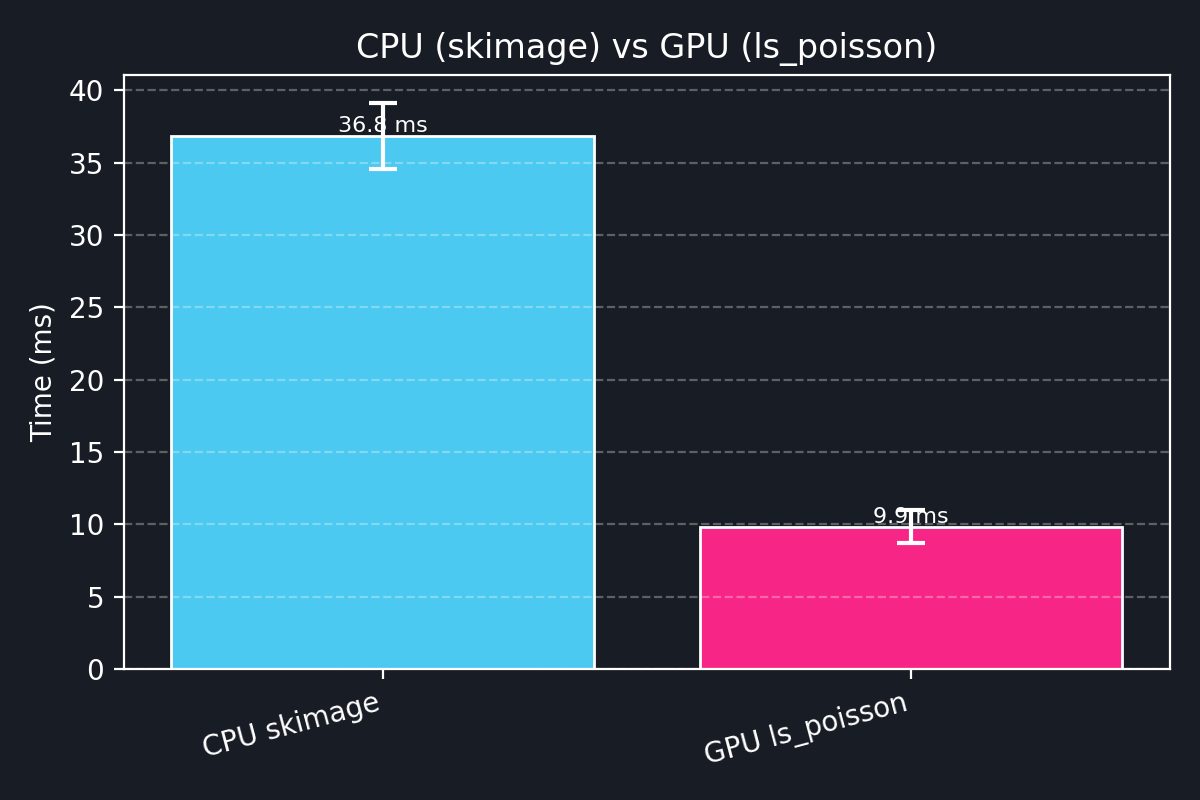
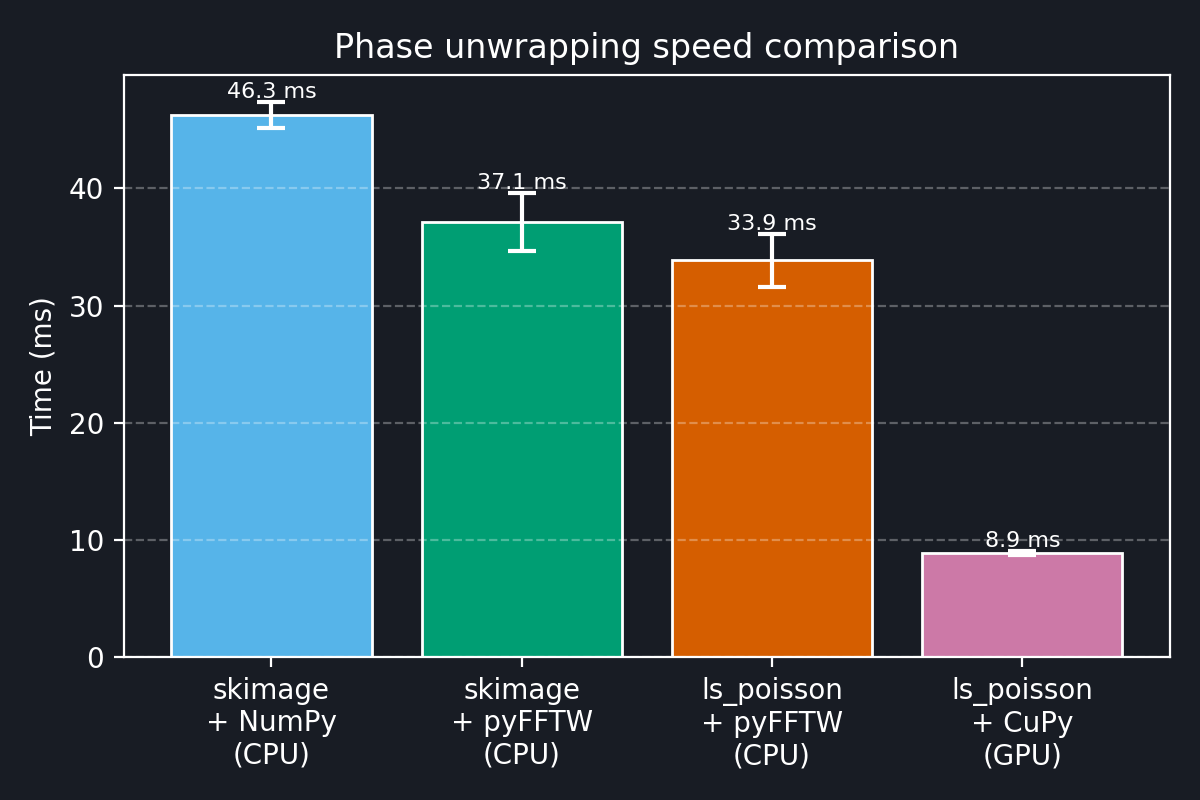
docs: expand algorithm and cpu/gpu comparison

diff --git a/examples/compare_cpu_gpu.py b/examples/compare_cpu_gpu.py
@@ -1,5 +1,16 @@
-"""
-Compare speed of CPU (skimage unwrap_phase) vs GPU (ls_poisson) on hologram_cell data.
+"""CPU vs GPU phase unwrapping speed comparison
+
+Compares four pipelines on hologram_cell data:
+
+- CPU  skimage    + NumPy   (qpretrieve NumPy FFT   + skimage unwrap)
+- CPU  skimage    + pyFFTW  (qpretrieve pyFFTW FFT  + skimage unwrap)
+- CPU  ls_poisson + pyFFTW  (qpretrieve pyFFTW FFT  + xpunwrap Poisson)
+- GPU  ls_poisson + CuPy    (full CuPy pipeline)
+
+Run::
+
+    python examples/compare_cpu_gpu.py
+
 """
 
 from __future__ import annotations
@@ -12,6 +23,7 @@ import numpy as np
 
 import qpretrieve
 import xpunwrap
+import xpunwrap.fourier as xp_fourier
 
 DATA_PATH = Path(__file__).parent.parent / "tests" / "data" / "hologram_cell.npz"
 OUTPUT_PNG = Path(__file__).parent / "compare_cpu_gpu.png"
@@ -34,36 +46,86 @@ def _stack_phase(arr: np.ndarray) -> np.ndarray:
     return np.repeat(arr[None, ...], repeats=STACK_DEPTH, axis=0)
 
 
-def time_cpu_pipeline(raw: dict[str, np.ndarray], repeats: int = 3):
+def _time_skimage_pipeline(
+        raw: dict[str, np.ndarray],
+        fft_interface,
+        repeats: int = 3,
+):
+    """Shared timing loop for skimage-based pipelines."""
     qpretrieve.set_ndarray_backend("numpy")
-    fft_interface = qpretrieve.fourier.FFTFilterPyFFTW
     try:
         algo = xpunwrap.algos_available()["algo_skimage_unwrap"]
     except Exception:
         return None
 
-    # do a warmup, important for PyFFTW
-    holo = qpretrieve.OffAxisHologram(raw["data"], fft_interface)
-    bg = qpretrieve.OffAxisHologram(raw["bg"], fft_interface)
-    holo.run_pipeline(filter_name="disk", filter_size=1 / 2, scale_to_filter=True)
-    bg.process_like(holo)
-    phase_wrp = np.asarray(holo.phase - bg.phase, dtype=np.float32)
-    algo(phase_wrp)
+    def _run():
+        holo = qpretrieve.OffAxisHologram(raw["data"], fft_interface)
+        bg = qpretrieve.OffAxisHologram(raw["bg"], fft_interface)
+        holo.run_pipeline(
+            filter_name="disk", filter_size=1 / 2, scale_to_filter=True)
+        bg.process_like(holo)
+        algo(np.asarray(holo.phase - bg.phase, dtype=np.float32))
 
+    _run()  # warmup (important for pyFFTW plan compilation)
     times = []
     for _ in range(repeats):
         start = time.perf_counter()
-        holo = qpretrieve.OffAxisHologram(raw["data"], fft_interface)
-        bg = qpretrieve.OffAxisHologram(raw["bg"], fft_interface)
-        holo.run_pipeline(filter_name="disk", filter_size=1 / 2, scale_to_filter=True)
-        bg.process_like(holo)
-        phase_wrp = np.asarray(holo.phase - bg.phase, dtype=np.float32)
-        algo(phase_wrp)
+        _run()
         times.append((time.perf_counter() - start) * 1000.0)
     return float(np.mean(times)), float(np.std(times))
 
 
+def time_cpu_skimage_numpy(raw: dict[str, np.ndarray], repeats: int = 3):
+    """CPU pipeline: qpretrieve (NumPy FFT) + skimage unwrap."""
+    return _time_skimage_pipeline(
+        raw, qpretrieve.fourier.FFTFilterNumpy, repeats)
+
+
+def time_cpu_skimage_pyfftw(raw: dict[str, np.ndarray], repeats: int = 3):
+    """CPU pipeline: qpretrieve (pyFFTW) + skimage unwrap."""
+    return _time_skimage_pipeline(
+        raw, qpretrieve.fourier.FFTFilterPyFFTW, repeats)
+
+
+def time_cpu_ls_poisson_pyfftw(raw: dict[str, np.ndarray], repeats: int = 3):
+    """CPU pipeline: qpretrieve (pyFFTW) + xpunwrap ls_poisson (pyFFTW)."""
+    from xpunwrap.fourier import FFTEnginePyFFTW
+    if FFTEnginePyFFTW is None:
+        return None
+
+    qpretrieve.set_ndarray_backend("numpy")
+    xpunwrap.set_ndarray_backend("numpy")
+    fft_interface = qpretrieve.fourier.FFTFilterPyFFTW
+    xp_fourier.PREFERRED_ENGINE = "FFTEnginePyFFTW"
+    algo = xpunwrap.algos_available()["algo_ls_poisson"]
+
+    try:
+        # Warmup
+        holo = qpretrieve.OffAxisHologram(raw["data"], fft_interface)
+        bg = qpretrieve.OffAxisHologram(raw["bg"], fft_interface)
+        holo.run_pipeline(
+            filter_name="disk", filter_size=1 / 2, scale_to_filter=True)
+        bg.process_like(holo)
+        algo(np.asarray(holo.phase - bg.phase, dtype=np.float32))
+
+        times = []
+        for _ in range(repeats):
+            start = time.perf_counter()
+            holo = qpretrieve.OffAxisHologram(raw["data"], fft_interface)
+            bg = qpretrieve.OffAxisHologram(raw["bg"], fft_interface)
+            holo.run_pipeline(
+                filter_name="disk", filter_size=1 / 2, scale_to_filter=True)
+            bg.process_like(holo)
+            algo(np.asarray(holo.phase - bg.phase, dtype=np.float32))
+            times.append((time.perf_counter() - start) * 1000.0)
+    finally:
+        xp_fourier.PREFERRED_ENGINE = None
+
+    return float(np.mean(times)), float(np.std(times))
+
+
 def time_gpu_pipeline(raw: dict[str, np.ndarray], repeats: int = 3):
+    """GPU pipeline: qpretrieve (CuPy FFT) + xpunwrap ls_poisson (CuPy FFT)."""
     try:
         import cupy as cp  # noqa: F401
     except Exception:
@@ -79,19 +141,19 @@ def time_gpu_pipeline(raw: dict[str, np.ndarray], repeats: int = 3):
         if hasattr(xp, "cuda"):
             xp.cuda.Stream.null.synchronize()
 
-    times = []
-    # Warmup once
+    # Warmup
     _sync()
     holo_gpu = xp.asarray(raw["data"])
     bg_gpu = xp.asarray(raw["bg"])
     holo_obj = qpretrieve.OffAxisHologram(holo_gpu, fft_interface)
     bg_obj = qpretrieve.OffAxisHologram(bg_gpu, fft_interface)
-    holo_obj.run_pipeline(filter_name="disk", filter_size=1 / 2, scale_to_filter=True)
+    holo_obj.run_pipeline(
+        filter_name="disk", filter_size=1 / 2, scale_to_filter=True)
     bg_obj.process_like(holo_obj)
-    phase_wrp = xp.asarray(holo_obj.phase - bg_obj.phase, dtype=xp.float32)
-    algo(phase_wrp)
+    algo(xp.asarray(holo_obj.phase - bg_obj.phase, dtype=xp.float32))
     _sync()
 
+    times = []
     for _ in range(repeats):
         _sync()
         start = time.perf_counter()
@@ -99,10 +161,10 @@ def time_gpu_pipeline(raw: dict[str, np.ndarray], repeats: int = 3):
         bg_gpu = xp.asarray(raw["bg"])
         holo_obj = qpretrieve.OffAxisHologram(holo_gpu, fft_interface)
         bg_obj = qpretrieve.OffAxisHologram(bg_gpu, fft_interface)
-        holo_obj.run_pipeline(filter_name="disk", filter_size=1 / 2, scale_to_filter=True)
+        holo_obj.run_pipeline(
+            filter_name="disk", filter_size=1 / 2, scale_to_filter=True)
         bg_obj.process_like(holo_obj)
-        phase_wrp = xp.asarray(holo_obj.phase - bg_obj.phase, dtype=xp.float32)
-        algo(phase_wrp)
+        algo(xp.asarray(holo_obj.phase - bg_obj.phase, dtype=xp.float32))
         _sync()
         times.append((time.perf_counter() - start) * 1000.0)
     return float(np.mean(times)), float(np.std(times))
@@ -111,50 +173,43 @@ def time_gpu_pipeline(raw: dict[str, np.ndarray], repeats: int = 3):
 def main():
     raw = _load_raw_numpy()
 
-    cpu = time_cpu_pipeline(raw)
-    gpu = time_gpu_pipeline(raw)
+    skimage_numpy = time_cpu_skimage_numpy(raw)
+    skimage_pyfftw = time_cpu_skimage_pyfftw(raw)
+    ls_pyfftw = time_cpu_ls_poisson_pyfftw(raw)
+    ls_cupy = time_gpu_pipeline(raw)
 
-    labels = []
-    means = []
-    stds = []
-    if cpu:
-        labels.append("CPU skimage")
-        means.append(cpu[0])
-        stds.append(cpu[1])
-    if gpu:
-        labels.append("GPU ls_poisson")
-        means.append(gpu[0])
-        stds.append(gpu[1])
+    # Wong (2011) / Nature Methods colorblind-safe palette
+    clr_blue, clr_green = "#56B4E9", "#009E73"
+    clr_orange, clr_purple = "#D55E00", "#CC79A7"
+    entries = [
+        ("skimage\n+ NumPy\n(CPU)", skimage_numpy, clr_blue),
+        ("skimage\n+ pyFFTW\n(CPU)", skimage_pyfftw, clr_green),
+        ("ls_poisson\n+ pyFFTW\n(CPU)", ls_pyfftw, clr_orange),
+        ("ls_poisson\n+ CuPy\n(GPU)", ls_cupy, clr_purple),
+    ]
+    entries = [(lbl, res, col) for lbl, res, col in entries if res is not None]
+
+    labels = [e[0] for e in entries]
+    means = [e[1][0] for e in entries]
+    stds = [e[1][1] for e in entries]
+    colors = [e[2] for e in entries]
 
     plt.style.use("dark_background")
-    fig, ax = plt.subplots(figsize=(6, 4), facecolor='#181C24')
+    fig, ax = plt.subplots(figsize=(6, 4), facecolor="#181C24")
     x = np.arange(len(labels))
-    ax.bar(
-        x,
-        means,
-        yerr=stds,
-        capsize=5,
-        color=["#4cc9f0", "#f72585"],
-        edgecolor="white",
-        error_kw={
-            "ecolor": "white",
-            "elinewidth": 1.5,
-            "capsize": 5,
-            "capthick": 1.5,
-        },
-    )
+    ax.bar(x, means, yerr=stds, color=colors, edgecolor="white",
+           error_kw={"ecolor": "white", "elinewidth": 1.5,
+                     "capsize": 5, "capthick": 1.5})
     ax.set_xticks(x)
-    ax.set_xticklabels(labels, rotation=15, ha="right")
+    ax.set_xticklabels(labels, ha="center")
     ax.set_ylabel("Time (ms)")
-    ax.set_title("CPU (skimage) vs GPU (ls_poisson)")
+    ax.set_title("Phase unwrapping speed comparison")
     ax.grid(axis="y", linestyle="--", alpha=0.3)
-    ax.set_facecolor('#181C24')
+    ax.set_facecolor("#181C24")
 
-    for xi, mean in zip(x, means):
-        if mean is not None:
-            ax.text(xi, mean, f"{mean:.1f} ms", ha="center", va="bottom", fontsize=8)
-        else:
-            ax.text(xi, 0, "GPU missing", ha="center", va="bottom", fontsize=8, rotation=90)
+    for xi, mean, std in zip(x, means, stds):
+        ax.text(xi, mean + std, f"{mean:.1f} ms",
+                ha="center", va="bottom", fontsize=8)
 
     fig.tight_layout()
     fig.savefig(OUTPUT_PNG, dpi=200)